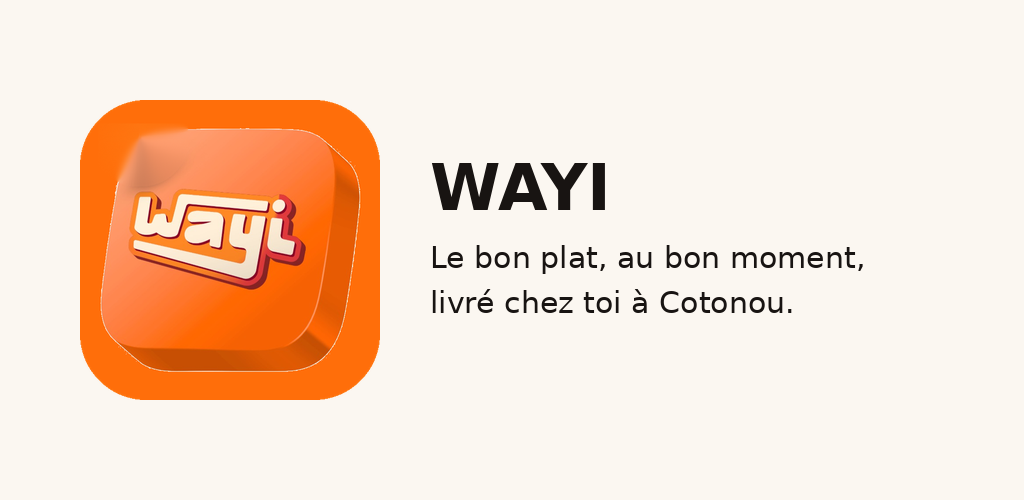
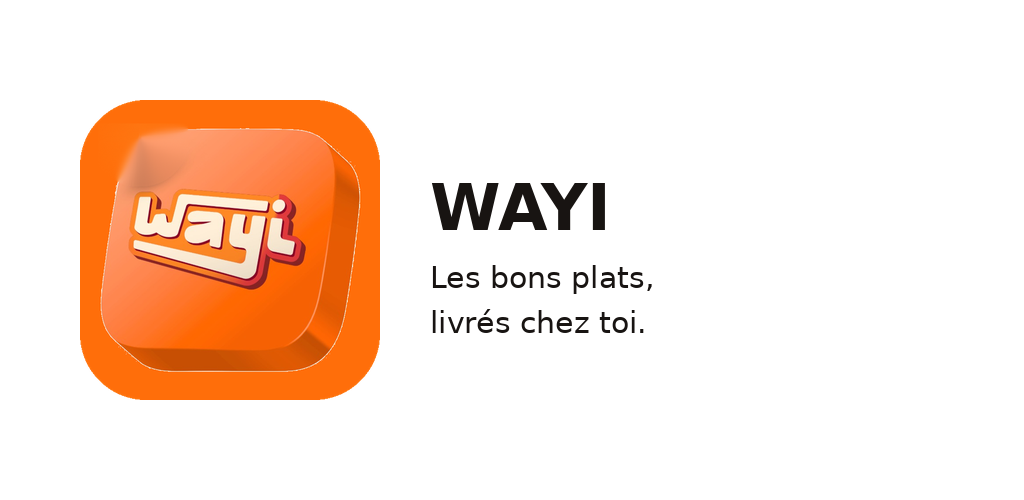
Phrase sans Cotonou; nouvelle page panier du site (en-tete degrade, plats par restaurant, recapitulatif, panier vide avec idees)
Claude-Session: https://claude.ai/code/session_01N563ngubQmDqaLwZbKoGBB

Changed region(s): [[0.4062, 0.3, 0.8438, 0.69]]

diff --git a/front/apps/client/src/screens/CartScreen.jsx b/front/apps/client/src/screens/CartScreen.jsx
@@ -1,11 +1,11 @@
 import { useState, useEffect, lazy, Suspense } from 'react';
 import toast from 'react-hot-toast';
-import { MapPin, LocateFixed, Trash2, ArrowLeft, ChevronRight, Plus, Check, Smartphone, CreditCard, Banknote, ShoppingCart } from 'lucide-react';
+import { MapPin, LocateFixed, Trash2, Plus, Check, Smartphone, CreditCard, Banknote, ShoppingCart, Bike, BadgePercent, ShieldCheck } from 'lucide-react';
 import { useApp } from '../context/AppContext';
 import { StatusBar, BottomNav, Spinner, launchConfetti } from '../components/UI';
-import { DishImg, Qty, Empty, fcfa } from '../components/Wayi';
+import { DishImg, Qty, fcfa, RestoLogo, MenuCard, toCartItem } from '../components/Wayi';
 import AddressSheet from '../components/AddressSheet';
-import { ordersAPI, paymentsAPI, authAPI } from '../api';
+import { ordersAPI, paymentsAPI, authAPI, menuAPI } from '../api';
 
 // Carte chargee seulement a l'etape livraison (Leaflet est lourd)
 const PickLocationMap = lazy(() => import('../components/LiveMap').then(m => ({ default: m.PickLocationMap })));
@@ -55,6 +55,11 @@ export default function CartScreen() {
   const viaKkiapay = payMode === 'kkiapay';
 
   const cart = state.cart;
+  const [ideas, setIdeas] = useState([]);
+  useEffect(() => {
+    if (state.cart.length) return;
+    menuAPI.get({}).then(r => setIdeas((r.data?.dishes || []).filter(d => d.image).slice(0, 4))).catch(() => {});
+  }, [state.cart.length]);
   const user = state.user;
   const restaurantCount = cartByRestaurant.length;
   const defaultAddress = user?.addresses?.find(a => a.isDefault) || user?.addresses?.[0];
@@ -230,8 +235,31 @@ export default function CartScreen() {
     return (
       <div className="screen">
         <StatusBar />
-        <div className="w-topbar"><span style={{ width: 40 }} /><div className="w-topbar-title">Mon panier</div><span style={{ width: 40 }} /></div>
-        <Empty Icon={ShoppingCart} title="Ton panier est vide" text="Ajoute des plats du menu du jour, ou demande à Yivi de choisir pour toi." action={() => navigate('home')} actionLabel="Voir les menus du jour" />
+        <div className="w-scroll" style={{ paddingBottom: 110 }}>
+          <div className="ct-hero">
+            <h1>Mon panier</h1>
+            <p>Il est encore vide.</p>
+          </div>
+          <div className="w-pad">
+            <div className="ct-empty">
+              <span className="ct-empty-ico"><ShoppingCart size={34} strokeWidth={1.8} aria-hidden="true" /></span>
+              <strong>Ton panier attend ses premiers plats</strong>
+              <small>Choisis dans le menu du jour, ou laisse Yivi te proposer le plat qu'il te faut.</small>
+              <div className="ct-empty-actions">
+                <button className="w-btn" onClick={() => navigate('home')}>Voir le menu du jour</button>
+                <button className="ct-ghost" onClick={() => navigate('ai')}>Demander à Yivi</button>
+              </div>
+            </div>
+            {ideas.length > 0 && (
+              <>
+                <div className="w-section-head" style={{ marginTop: 22 }}><span className="w-section-title">Envie d'une idée ?</span></div>
+                <div className="w-grid">
+                  {ideas.map(d => <MenuCard key={d.id} dish={d} onOpen={(x) => { dispatch({ type: 'SET_ACTIVE_DISH', payload: x }); navigate('dish'); }} onAdd={(x) => dispatch({ type: 'CART_ADD', payload: { item: toCartItem(x) } })} />)}
+                </div>
+              </>
+            )}
+          </div>
+        </div>
         <BottomNav />
       </div>
     );
@@ -256,39 +284,69 @@ export default function CartScreen() {
 
   // ── Etape 1 : panier ───────────────────────────────────────
   if (step === 'cart') {
+    const count = cart.reduce((n, i) => n + i.qty, 0);
     return (
       <div className="screen">
         <StatusBar />
-        <div className="w-topbar">
-          <button className="w-icon-btn" onClick={() => navigate('home')} aria-label="Retour"><ArrowLeft size={22} aria-hidden="true" /></button>
-          <div className="w-topbar-title">Mon panier</div>
-          <button className="w-icon-btn" style={{ color: 'var(--brand)' }} onClick={() => { if (window.confirm('Vider le panier ?')) dispatch({ type: 'CART_CLEAR' }); }} aria-label="Vider le panier"><Trash2 size={21} aria-hidden="true" /></button>
-        </div>
+        <div className="w-scroll" style={{ paddingBottom: 250 }}>
+          <div className="ct-hero">
+            <div className="ct-hero-row">
+              <div>
+                <h1>Mon panier</h1>
+                <p>{count} plat{count > 1 ? 's' : ''} · {restaurantCount} restaurant{restaurantCount > 1 ? 's' : ''}</p>
+              </div>
+              <button className="ct-clear" onClick={() => { if (window.confirm('Vider le panier ?')) dispatch({ type: 'CART_CLEAR' }); }} aria-label="Vider le panier">
+                <Trash2 size={18} aria-hidden="true" /> Vider
+              </button>
+            </div>
+          </div>
 
-        <div className="w-scroll" style={{ paddingBottom: 240 }}>
-          <div className="w-pad">
+          <div className="w-pad ct-body">
             {restaurantCount > 1 && (
-              <div className="w-note" style={{ marginBottom: 14 }}>Tes plats viennent de {restaurantCount} restaurants : {restaurantCount} livraisons séparées, chacune avec son livreur.</div>
+              <div className="ct-note"><Bike size={16} aria-hidden="true" /> {restaurantCount} restaurants : {restaurantCount} livraisons séparées, chacune avec son livreur.</div>
             )}
-            {cart.map(item => (
-              <div key={item.id} className="w-cart-item">
-                <DishImg src={item.image} iconSize={22} />
-                <div className="w-cart-info">
-                  <div className="w-cart-name">{item.name}</div>
-                  <div className="w-cart-resto">{item.restaurantName}</div>
-                  <div className="w-price">{fcfa(item.price * item.qty)}</div>
+
+            {cartByRestaurant.map(group => (
+              <div key={group.restaurantId} className="ct-group">
+                <div className="ct-group-head">
+                  <RestoLogo restaurant={{ name: group.restaurantName, logo: group.items.find(i => i.restaurantLogo)?.restaurantLogo }} size={38} />
+                  <div>
+                    <strong>{group.restaurantName}</strong>
+                    <small>{group.items.reduce((n, i) => n + i.qty, 0)} plat{group.items.reduce((n, i) => n + i.qty, 0) > 1 ? 's' : ''}</small>
+                  </div>
                 </div>
-                <Qty small value={item.qty}
-                  onMinus={() => dispatch({ type: 'CART_REMOVE', payload: item.id })}
-                  onPlus={() => dispatch({ type: 'CART_ADD', payload: { item } })} />
+                {group.items.map(item => (
+                  <div key={item.id} className="ct-item">
+                    <DishImg src={item.image} iconSize={22} />
+                    <div className="ct-item-info">
+                      <div className="ct-item-name">{item.name}</div>
+                      <div className="ct-item-unit">{fcfa(item.price)} l'unité</div>
+                      <div className="ct-item-price">{fcfa(item.price * item.qty)}</div>
+                    </div>
+                    <Qty small value={item.qty}
+                      onMinus={() => dispatch({ type: 'CART_REMOVE', payload: item.id })}
+                      onPlus={() => dispatch({ type: 'CART_ADD', payload: { item } })} />
+                  </div>
+                ))}
               </div>
             ))}
-            <div style={{ borderTop: '1px solid var(--border)', marginTop: 18, paddingTop: 10 }}>{summary}</div>
+
+            <button className="ct-more" onClick={() => navigate('home')}><Plus size={16} aria-hidden="true" /> Ajouter d'autres plats</button>
+
+            <div className="ct-perks">
+              <span><Bike size={16} aria-hidden="true" /> Livraison au kilomètre</span>
+              <span><ShieldCheck size={16} aria-hidden="true" /> Restaurants vérifiés</span>
+              {discount > 0 && <span className="on"><BadgePercent size={16} aria-hidden="true" /> {quote.promoCode} appliqué</span>}
+            </div>
+
+            <div className="ct-summary">{summary}</div>
           </div>
         </div>
 
-        <div className="w-sheet-bottom">
-          <button className="w-btn" onClick={() => setStep('checkout')}>Passer la commande</button>
+        <div className="w-sheet-bottom ct-bottom">
+          <button className="w-btn ct-cta" onClick={() => setStep('checkout')}>
+            <span>Passer la commande</span><span className="ct-cta-total">{fcfa(total)}</span>
+          </button>
         </div>
         <BottomNav />
       </div>
@@ -300,7 +358,7 @@ export default function CartScreen() {
     <div className="screen">
       <StatusBar />
       <div className="w-topbar">
-        <button className="w-icon-btn" onClick={() => setStep('cart')} aria-label="Retour au panier"><ArrowLeft size={22} aria-hidden="true" /></button>
+        <button className="ct-back" onClick={() => setStep('cart')}>Retour</button>
         <div className="w-topbar-title">Livraison et paiement</div>
         <span style={{ width: 40 }} />
       </div>
@@ -315,7 +373,6 @@ export default function CartScreen() {
               <span style={{ display: 'block', fontSize: 12.5, color: 'var(--gray)', marginTop: 2 }}>{defaultAddress?.address || 'Adresse, repère et position Google Maps'}</span>
               {defaultAddress?.landmark && <span style={{ display: 'block', fontSize: 12, color: 'var(--gray)' }}>Repère : {defaultAddress.landmark}</span>}
             </span>
-            <ChevronRight size={20} color="#B5AAA3" aria-hidden="true" />
           </button>
           <button className="w-link" style={{ margin: '10px auto 0', display: 'flex' }} onClick={() => setShowAddressPicker(true)}>
             <Plus size={16} aria-hidden="true" /> Changer ou ajouter une adresse

diff --git a/front/apps/client/src/theme.css b/front/apps/client/src/theme.css
@@ -403,3 +403,50 @@ html, body, #root, .app-shell, .screen { background: #FFFFFF; }
 .tr-close { width: 38px; height: 38px; border-radius: 50%; border: 1px solid #ECEEF1; background: #fff; display: grid; place-items: center; cursor: pointer; }
 .tr-empty { color: #8A909C; font-size: 14px; }
 .w-logo-fallback { width: 100%; height: 100%; border-radius: 50%; }
+
+/* ============================================================
+   Panier
+   ============================================================ */
+.ct-hero { background: linear-gradient(150deg, #FF8A2B 0%, #F2690D 45%, #C2462B 85%, #8E2318 100%); color: #fff;
+  padding: 22px 20px 54px; border-radius: 0 0 30px 30px; }
+.ct-hero h1 { margin: 0; font-family: var(--font-display); font-size: 28px; font-weight: 800; letter-spacing: -0.5px; }
+.ct-hero p { margin: 4px 0 0; font-size: 14px; opacity: .9; }
+.ct-hero-row { display: flex; align-items: flex-start; justify-content: space-between; gap: 12px; }
+.ct-clear { display: inline-flex; align-items: center; gap: 6px; height: 36px; padding: 0 14px; border: 0; border-radius: 999px;
+  background: rgba(255,255,255,0.2); color: #fff; font-family: var(--font-body); font-size: 13px; font-weight: 700; cursor: pointer; }
+.ct-body { margin-top: -36px; position: relative; }
+.ct-note { display: flex; align-items: center; gap: 8px; background: #FFEEDF; color: #A8321F; font-size: 13px; font-weight: 600;
+  padding: 10px 14px; border-radius: 14px; margin-bottom: 12px; }
+.ct-group { background: #fff; border-radius: 22px; padding: 14px; margin-bottom: 14px; border: 1px solid #EEF0F3;
+  box-shadow: 0 8px 22px rgba(21, 24, 31, 0.07); }
+.ct-group-head { display: flex; align-items: center; gap: 10px; padding-bottom: 12px; border-bottom: 1px dashed #ECEEF1; margin-bottom: 4px; }
+.ct-group-head div { display: flex; flex-direction: column; }
+.ct-group-head strong { font-size: 15px; color: #15181F; }
+.ct-group-head small { font-size: 12px; color: #8A909C; }
+.ct-item { display: flex; align-items: center; gap: 12px; padding: 12px 0; }
+.ct-item + .ct-item { border-top: 1px solid #F2F3F5; }
+.ct-item .w-img { width: 72px; height: 72px; border-radius: 16px; flex-shrink: 0; }
+.ct-item-info { flex: 1; min-width: 0; }
+.ct-item-name { font-weight: 700; font-size: 14.5px; color: #15181F; line-height: 1.25; }
+.ct-item-unit { font-size: 12px; color: #8A909C; margin-top: 2px; }
+.ct-item-price { font-weight: 800; font-size: 15px; color: #A8321F; margin-top: 4px; }
+.ct-more { width: 100%; height: 48px; border-radius: 16px; border: 1.5px dashed #F2690D; background: #fff; color: #F2690D;
+  font-family: var(--font-body); font-weight: 700; font-size: 14px; display: flex; align-items: center; justify-content: center; gap: 6px; cursor: pointer; }
+.ct-perks { display: flex; flex-wrap: wrap; gap: 8px; margin: 14px 0; }
+.ct-perks span { display: inline-flex; align-items: center; gap: 6px; padding: 7px 12px; border-radius: 999px; background: #F4F5F7; color: #414754; font-size: 12.5px; font-weight: 600; }
+.ct-perks span svg { color: #F2690D; }
+.ct-perks span.on { background: #E6F6EE; color: #1E9E5A; }
+.ct-perks span.on svg { color: #1E9E5A; }
+.ct-summary { background: #fff; border-radius: 22px; padding: 12px 16px 16px; border: 1px solid #EEF0F3; box-shadow: 0 8px 22px rgba(21, 24, 31, 0.07); }
+.ct-bottom { background: linear-gradient(to top, #fff 75%, rgba(255,255,255,0)) !important; }
+.ct-cta { display: flex !important; justify-content: space-between !important; align-items: center; padding: 0 20px !important; }
+.ct-cta-total { background: rgba(255,255,255,0.22); padding: 6px 12px; border-radius: 999px; font-weight: 800; }
+.ct-empty { margin-top: -36px; position: relative; background: #fff; border-radius: 24px; padding: 26px 20px 20px; text-align: center;
+  border: 1px solid #EEF0F3; box-shadow: 0 10px 26px rgba(21, 24, 31, 0.08); display: flex; flex-direction: column; align-items: center; }
+.ct-empty-ico { width: 82px; height: 82px; border-radius: 50%; display: grid; place-items: center; color: #fff;
+  background: linear-gradient(135deg, #FF8A2B, #F2690D 55%, #A8321F); box-shadow: 0 10px 24px rgba(168, 50, 31, 0.3); margin-bottom: 14px; }
+.ct-empty strong { font-size: 18px; color: #15181F; }
+.ct-empty small { font-size: 14px; color: #8A909C; margin: 6px 0 18px; line-height: 1.5; }
+.ct-empty-actions { width: 100%; display: flex; flex-direction: column; gap: 10px; }
+.ct-ghost { height: 50px; border-radius: 16px; border: 1.5px solid #ECEEF1; background: #fff; font-family: var(--font-body); font-weight: 700; font-size: 14.5px; color: #15181F; cursor: pointer; }
+.ct-back { height: 36px; padding: 0 16px; border-radius: 999px; border: 1px solid #ECEEF1; background: #fff; font-family: var(--font-body); font-weight: 700; font-size: 13.5px; color: #A8321F; cursor: pointer; }

diff --git a/mobile/lib/features/auth/welcome_screen.dart b/mobile/lib/features/auth/welcome_screen.dart
@@ -70,7 +70,7 @@ class _WelcomeScreenState extends State<WelcomeScreen> {
             padding: EdgeInsets.fromLTRB(24, 28, 24, MediaQuery.of(context).padding.bottom + 22),
             decoration: const BoxDecoration(color: C.card, borderRadius: BorderRadius.vertical(top: Radius.circular(30))),
             child: Column(crossAxisAlignment: CrossAxisAlignment.start, children: [
-              Text('Les bons plats de Cotonou, livrés chez toi.', style: h1()),
+              Text('Les bons plats, livrés chez toi.', style: h1()),
               const SizedBox(height: 10),
               Text('Un menu choisi chez des restaurants vérifiés, au bon moment de la journée. Client, restaurant ou livreur : une seule appli.', style: body(C.muted)),
               const SizedBox(height: 24),

diff --git a/front/apps/client/src/screens/WelcomeScreen.jsx b/front/apps/client/src/screens/WelcomeScreen.jsx
@@ -51,7 +51,7 @@ export default function WelcomeScreen() {
       </header>
 
       <section className="wl-sheet">
-        <h1>Les bons plats de Cotonou, livrés chez toi.</h1>
+        <h1>Les bons plats, livrés chez toi.</h1>
         <p>Un menu choisi chez des restaurants vérifiés, au bon moment de la journée. Client, restaurant ou livreur : un seul espace.</p>
         <button className="wl-btn" onClick={() => open('register')}>
           Créer un compte

diff --git a/front/apps/client/src/components/Wayi.jsx b/front/apps/client/src/components/Wayi.jsx
@@ -20,6 +20,7 @@ export const fcfa = (n) => `${fmtNum(n)}\u00a0FCFA`;
 export const toCartItem = (dish) => ({
   id: dish.id, name: dish.name, icon: dish.icon, image: dish.image || null, price: dish.price,
   restaurantId: dish.restaurantId, restaurantName: dish.restaurant?.name, restaurantIcon: dish.restaurant?.icon,
+  restaurantLogo: dish.restaurant?.logo || null,
 });
 
 export function DishImg({ src, className = '', style, iconSize = 28 }) {
